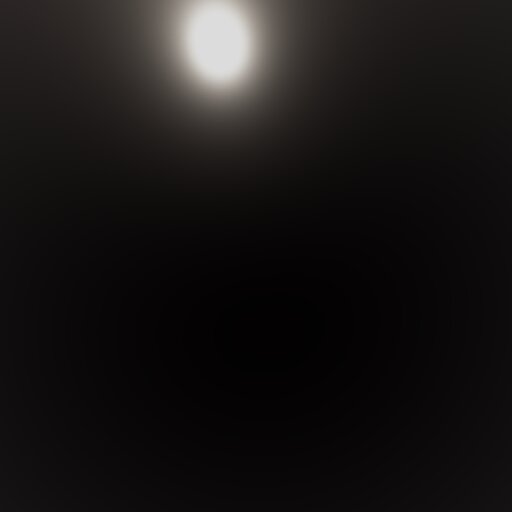
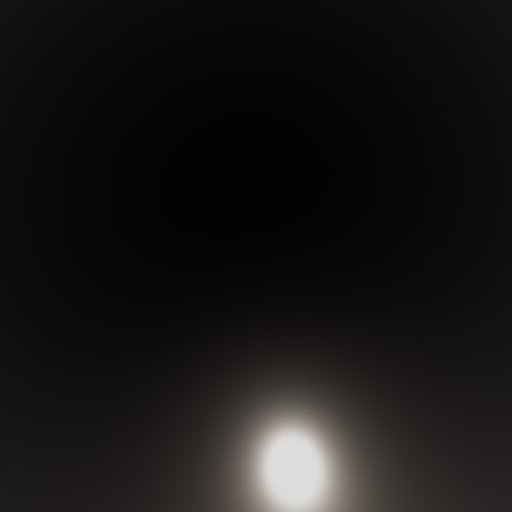
grasslands

diff --git a/index.html b/index.html
@@ -24,7 +24,11 @@
     
     <h1 id="instructions">Click here to move around the view<img src="https://alignvisual.com/wp-content/uploads/icon-360_2-300x194.png" style=" vertical-align: text-bottom; width:50px;"></h1> 
     
-    <button id="changeBG">Click to Change Background</button>
+    <button id="changeGrass">Click to go to grasslands</button>
+    <button id="changeGrass">Click to go to desserts</button>
+    <button id="changeGrass">Click to go to space</button>
+    <button id="changeGrass">Click to go to snowy mountains</button>
+    
     
     <script>    
           var camera, scene, renderer;
@@ -204,12 +208,14 @@
               }), 
               // right side
               new THREE.MeshBasicMaterial({
-                map: new THREE.TextureLoader().load('https://raw.githubusercontent.com/gracielnunciob/GRAPHIX_MP/master/SBely_hills/hills_rt.png'),
+                map: new THREE.TextureLoader().load('https://raw.githubusercontent.com/gracielnunciob/GRAPHIX_MP/master/SBely_hills/hills_lf.png'),
                 side: THREE.DoubleSide
               }), 
               // left side
               new THREE.MeshBasicMaterial({
-                map: new THREE.TextureLoader().load('https://raw.githubusercontent.com/gracielnunciob/GRAPHIX_MP/master/SBely_hills/hills_lf.png'),
+                map: new THREE.TextureLoader().load('https://raw.githubusercontent.com/gracielnunciob/GRAPHIX_MP/master/SBely_hills/hills_rt.png'),
+                  
+                  
                 side: THREE.DoubleSide
               }) 
             ];
